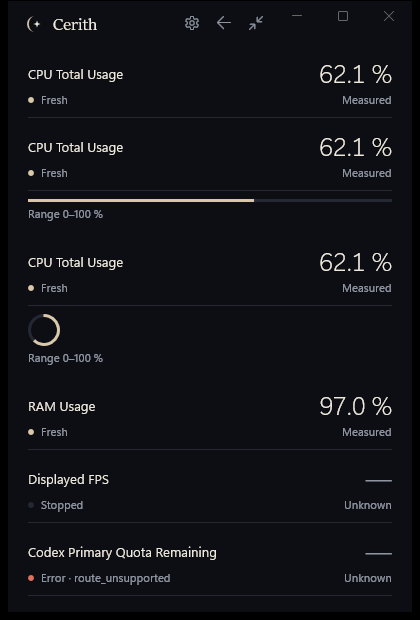
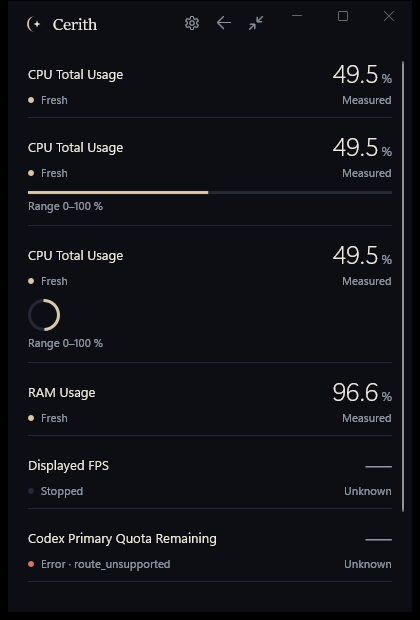
feat(widgethost): set units beside values and attach visuals to their readout (#77)
- MetricReadout shows the descriptor unit as a smaller muted run next to the
  number; the accessible name keeps the full value text.
- Bar, ring and sparkline own the row separator, so the visual sits with its
  readout instead of below a dividing line.

diff --git a/src/Cerith.WidgetHost/MetricReadout.xaml b/src/Cerith.WidgetHost/MetricReadout.xaml
@@ -46,7 +46,10 @@
                        MaxWidth="176"
                        VerticalAlignment="Center"
                        Typography.NumeralAlignment="Tabular"
-                       Style="{StaticResource CerithValueTextStyle}" />
+                       Style="{StaticResource CerithValueTextStyle}">
+                <Run x:Name="ValueRun" /><Run x:Name="UnitRun" FontSize="13" FontWeight="Normal"
+                                              Foreground="{ThemeResource CerithMutedTextBrush}" />
+            </TextBlock>
 
             <Grid Grid.Row="1" Grid.ColumnSpan="2" ColumnSpacing="7">
                 <Grid.ColumnDefinitions>
@@ -65,6 +68,6 @@
             </Grid>
         </Grid>
 
-        <Border Height="1" VerticalAlignment="Bottom" Background="{ThemeResource CerithSeparatorBrush}" />
+        <Border x:Name="Separator" Height="1" VerticalAlignment="Bottom" Background="{ThemeResource CerithSeparatorBrush}" />
     </Grid>
 </UserControl>

diff --git a/src/Cerith.WidgetHost/MetricRing.xaml b/src/Cerith.WidgetHost/MetricRing.xaml
@@ -5,7 +5,7 @@
     IsTabStop="False">
     <StackPanel>
         <ContentControl x:Name="ReadoutHost" IsTabStop="False" HorizontalContentAlignment="Stretch" />
-        <StackPanel Margin="0,8,0,12" Spacing="4">
+        <StackPanel Margin="0,0,0,12" Spacing="4">
             <Grid x:Name="Ring" Width="32" Height="32" HorizontalAlignment="Left" Visibility="Collapsed">
                 <Ellipse StrokeThickness="3" Stroke="{ThemeResource CerithSeparatorBrush}" />
                 <Path x:Name="Fill" StrokeThickness="3" Stroke="{ThemeResource CerithAccentBrush}" Visibility="Collapsed">
@@ -22,5 +22,6 @@
             </Grid>
             <TextBlock x:Name="RangeText" Style="{StaticResource CerithCaptionTextStyle}" />
         </StackPanel>
+        <Border Height="1" Background="{ThemeResource CerithSeparatorBrush}" />
     </StackPanel>
 </UserControl>

diff --git a/src/Cerith.WidgetHost/MetricSparkline.xaml b/src/Cerith.WidgetHost/MetricSparkline.xaml
@@ -5,12 +5,13 @@
     IsTabStop="False">
     <StackPanel>
         <ContentControl x:Name="ReadoutHost" IsTabStop="False" HorizontalContentAlignment="Stretch" />
-        <StackPanel Margin="0,8,0,12" Spacing="4">
+        <StackPanel Margin="0,0,0,12" Spacing="4">
             <Grid x:Name="Plot" Height="42" MinWidth="32" Visibility="Collapsed" SizeChanged="OnPlotSizeChanged">
                 <Polyline x:Name="Line" Stroke="{ThemeResource CerithAccentBrush}"
                           StrokeThickness="1.5" Stretch="None" Visibility="Collapsed" />
             </Grid>
             <TextBlock x:Name="RangeText" Style="{StaticResource CerithCaptionTextStyle}" />
         </StackPanel>
+        <Border Height="1" Background="{ThemeResource CerithSeparatorBrush}" />
     </StackPanel>
 </UserControl>

diff --git a/src/Cerith.WidgetHost/MetricBar.xaml b/src/Cerith.WidgetHost/MetricBar.xaml
@@ -5,7 +5,7 @@
     IsTabStop="False">
     <StackPanel>
         <ContentControl x:Name="ReadoutHost" IsTabStop="False" HorizontalContentAlignment="Stretch" />
-        <StackPanel Margin="0,8,0,12" Spacing="4">
+        <StackPanel Margin="0,0,0,12" Spacing="4">
             <Grid x:Name="Track" Height="3" Background="{ThemeResource CerithSeparatorBrush}">
                 <Border x:Name="Fill" Background="{ThemeResource CerithAccentBrush}">
                     <Border.RenderTransform>
@@ -15,5 +15,6 @@
             </Grid>
             <TextBlock x:Name="RangeText" Style="{StaticResource CerithCaptionTextStyle}" />
         </StackPanel>
+        <Border Height="1" Background="{ThemeResource CerithSeparatorBrush}" />
     </StackPanel>
 </UserControl>

diff --git a/src/Cerith.WidgetHost/MetricReadout.xaml.cs b/src/Cerith.WidgetHost/MetricReadout.xaml.cs
@@ -14,10 +14,11 @@ public sealed partial class MetricReadout : UserControl
     private MetricPresentationResult? _lastPresentation;
     internal event Action? PresentationChanged;
 
-    internal MetricReadout(MetricPresentationSpec spec)
+    internal MetricReadout(MetricPresentationSpec spec, bool separator = true)
     {
         _spec = spec;
         InitializeComponent();
+        if (!separator) Separator.Visibility = Visibility.Collapsed;
     }
 
     internal void Apply(MetricSubscription subscription)
@@ -27,7 +28,11 @@ public sealed partial class MetricReadout : UserControl
         if (_lastPresentation == presentation && LabelText.Text == label) return;
         _lastPresentation = presentation;
         LabelText.Text = label;
-        ValueText.Text = presentation.ValueText;
+        // The unit is shown smaller beside the number; the accessible name keeps the full text.
+        var unit = subscription.Descriptor?.Unit;
+        var hasUnit = !string.IsNullOrEmpty(unit) && presentation.ValueText.EndsWith(" " + unit, StringComparison.Ordinal);
+        ValueRun.Text = hasUnit ? presentation.ValueText[..^(unit!.Length + 1)] : presentation.ValueText;
+        UnitRun.Text = hasUnit ? " " + unit : "";
         StateText.Text = presentation.StateText;
         ConfidenceText.Text = presentation.ConfidenceText;
         VisualStateManager.GoToState(this, presentation.State switch

diff --git a/src/Cerith.WidgetHost/MetricSparkline.xaml.cs b/src/Cerith.WidgetHost/MetricSparkline.xaml.cs
@@ -21,7 +21,7 @@ public sealed partial class MetricSparkline : UserControl
         _spec = spec;
         _sequence = new(spec);
         InitializeComponent();
-        _readout = new MetricReadout(spec.Presentation);
+        _readout = new MetricReadout(spec.Presentation, separator: false);
         ReadoutHost.Content = _readout;
     }
 

diff --git a/src/Cerith.WidgetHost/MetricRing.xaml.cs b/src/Cerith.WidgetHost/MetricRing.xaml.cs
@@ -19,7 +19,7 @@ public sealed partial class MetricRing : UserControl
     {
         _spec = spec;
         InitializeComponent();
-        _readout = new MetricReadout(spec.Presentation);
+        _readout = new MetricReadout(spec.Presentation, separator: false);
         ReadoutHost.Content = _readout;
     }
 

diff --git a/src/Cerith.WidgetHost/MetricBar.xaml.cs b/src/Cerith.WidgetHost/MetricBar.xaml.cs
@@ -17,7 +17,7 @@ public sealed partial class MetricBar : UserControl
     {
         _spec = spec;
         InitializeComponent();
-        _readout = new MetricReadout(spec.Presentation);
+        _readout = new MetricReadout(spec.Presentation, separator: false);
         ReadoutHost.Content = _readout;
     }
 

diff --git a/docs/UI_UX.md b/docs/UI_UX.md
@@ -349,7 +349,7 @@ The window draws its own title bar: crescent-and-star mark, wordmark, then icon 
 
 All components bind by exact `MetricId` and share one subscription per id.
 
-- **MetricReadout** — label, value, state and confidence. A state dot carries the colour: accent for Fresh and Unlimited, amber for Stale (value dimmed), red for Error, neutral for Unavailable/Stopped/Waiting. Valueless states show `—` in muted text, never zero. Long error codes wrap without pushing confidence off the row.
+- **MetricReadout** — label, value with its unit set smaller beside it, state and confidence. A state dot carries the colour: accent for Fresh and Unlimited, amber for Stale (value dimmed), red for Error, neutral for Unavailable/Stopped/Waiting. Valueless states show `—` in muted text, never zero. Long error codes wrap without pushing confidence off the row.
 - **MetricBar / MetricRing** — a readout plus a fill over an explicit finite range chosen by the component, never inferred from the metric. Out-of-range, non-numeric and valueless states show no fill and say why. The ring is static geometry because the stock determinate `ProgressRing` painted values that depended on the previous value.
 - **MetricSparkline** — a readout plus a line over at most 60 observed Fresh samples held in memory, positioned by their real timestamps. Stale freezes the line; valueless states clear it. Nothing is persisted or interpolated.
 

diff --git a/.agent/TASKS.md b/.agent/TASKS.md
@@ -6,7 +6,7 @@ Only open work is listed. Finished tasks live in git history and merged PRs. Tas
 
 Status: open, no owner.
 
-Tokens, custom title bar and state colours are on `main` (see `docs/UI_UX.md`). Remaining ideas, in order of value: split value and unit typographically; let a bar, ring or sparkline replace the readout's hairline instead of sitting under it; restyle the configuration dialog with the same tokens; a first motion token for value and state changes that respects reduced motion; high-contrast check.
+Tokens, custom title bar and state colours are on `main` (see `docs/UI_UX.md`). Remaining ideas, in order of value: restyle the configuration dialog with the same tokens; a first motion token for value and state changes that respects reduced motion; high-contrast check.
 
 ## CER-M4-020 — Tray indicator and window state
 
